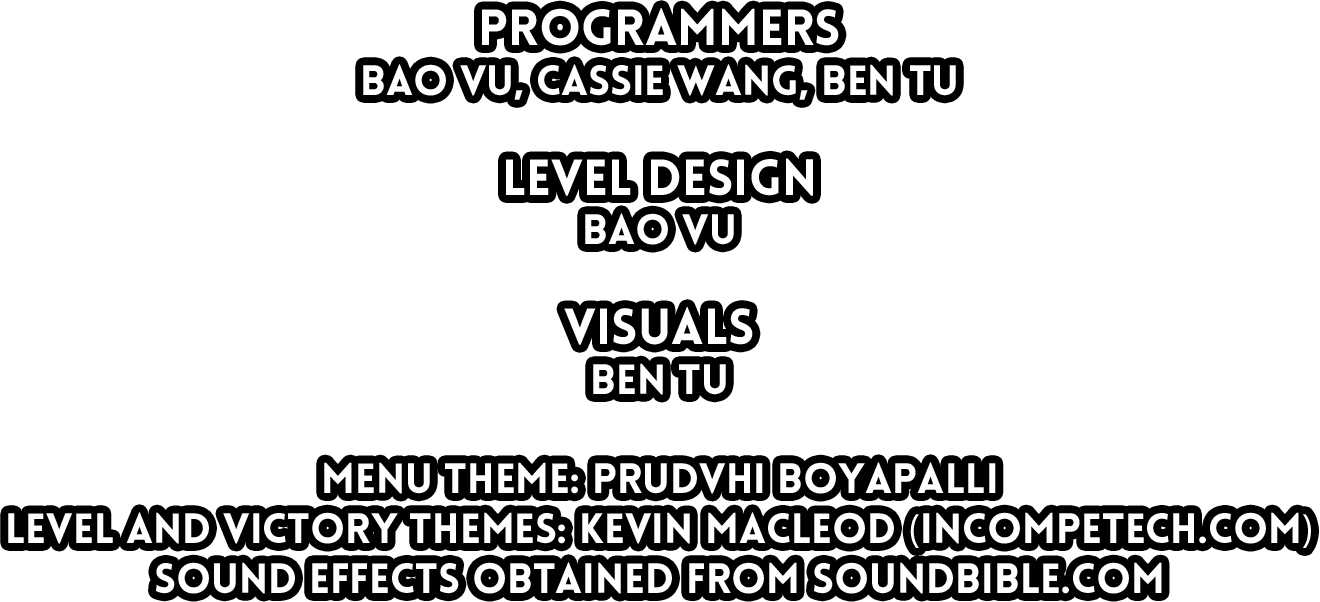
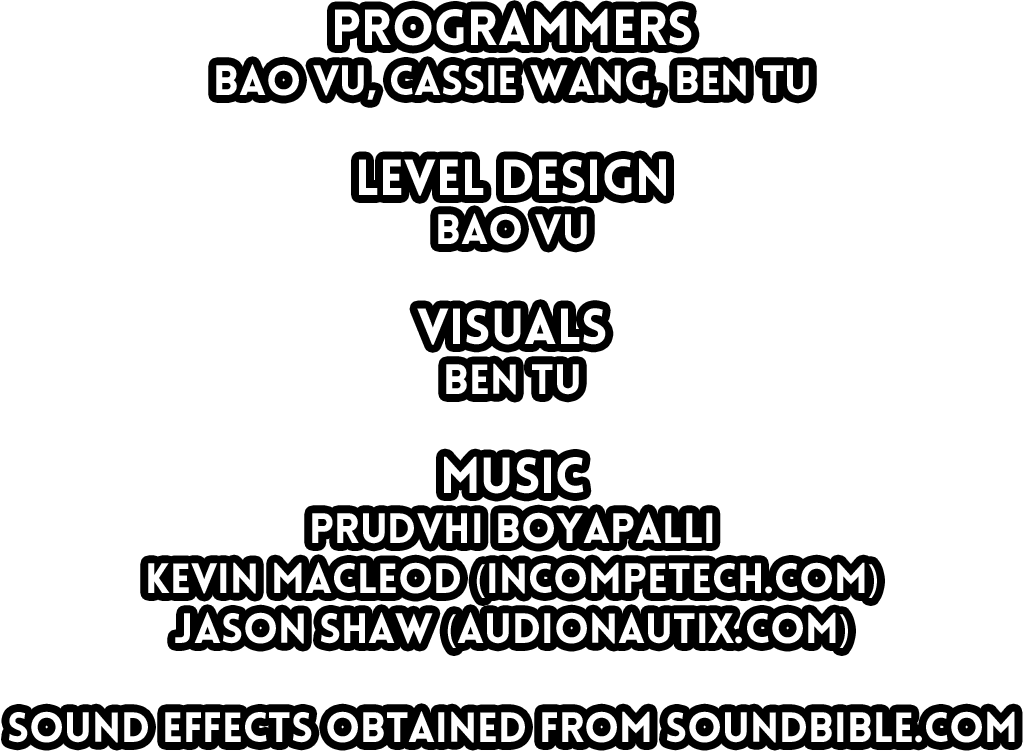
Updated credits.

Changed region(s): [[0.0, 0.0, 1.0, 1.0]]

diff --git a/core/src/com/totlc/levels/SandBoxLevel.java b/core/src/com/totlc/levels/SandBoxLevel.java
@@ -101,11 +101,11 @@ public class SandBoxLevel extends ALevel{
 //        addActor(x);
 
         ButtonPrompt credits;
-        credits = new ButtonPrompt(getAssetManager(), AssetList.CREDITS.toString(), (TradersOfTheLastCarp.CONFIG_WIDTH - 1320) / 2, (TradersOfTheLastCarp.CONFIG_HEIGHT - 602) / 2) {
+        credits = new ButtonPrompt(getAssetManager(), AssetList.CREDITS.toString(), (TradersOfTheLastCarp.CONFIG_WIDTH - 1023) / 2, (TradersOfTheLastCarp.CONFIG_HEIGHT - 751) / 2) {
 
             @Override
             public void draw(Batch batch, float alpha) {
-                batch.draw(getAsset(), getX(), getY(), 1320, 602);
+                batch.draw(getAsset(), getX(), getY(), 1023, 751);
             }
 
             @Override
